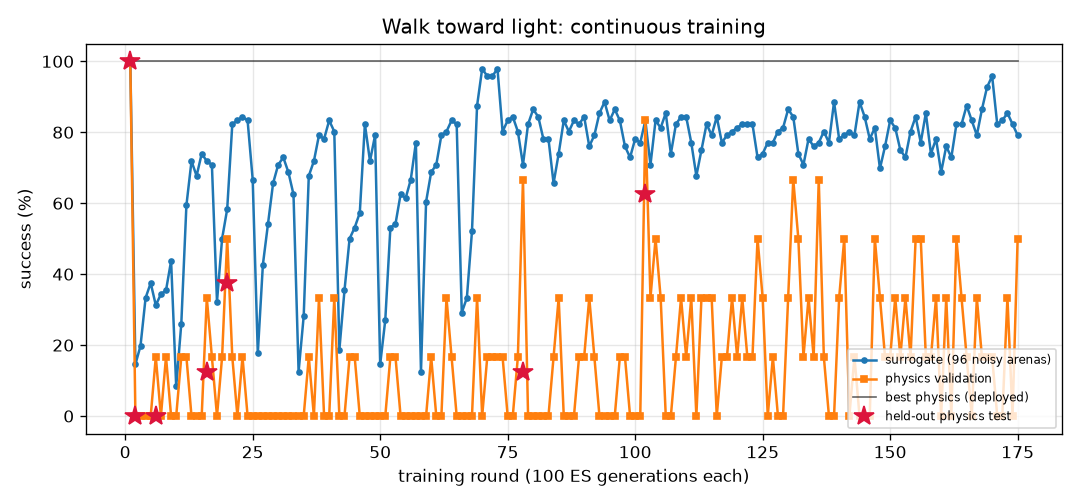
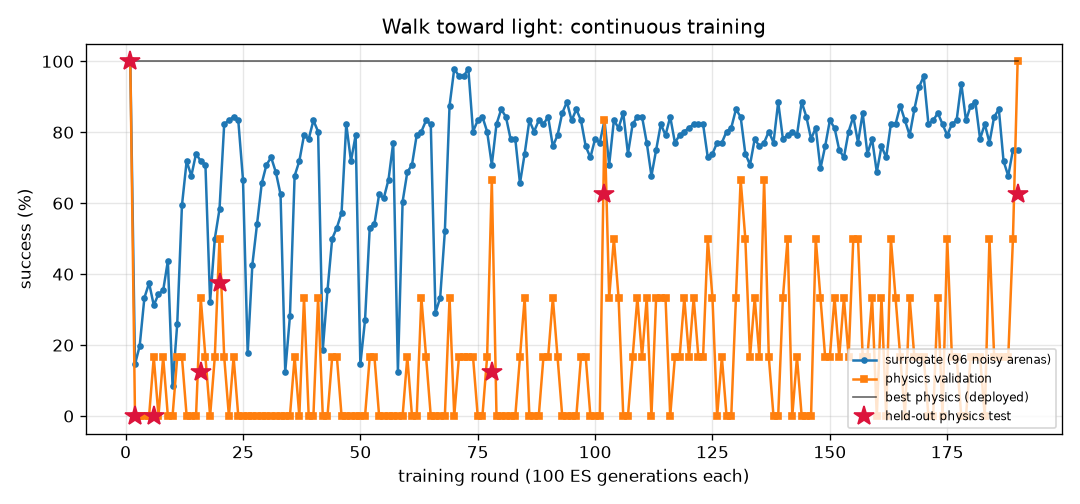
FlyLab: continuous training progress
- walk_forward: optimal, physics val 100% of 24, round 28
- turn: optimal, physics val 96% of 24, round 3
- goto: optimal, physics val 100% of 24, round 33
- odor_seek: optimal, physics val 100% of 24, round 61
- odor_avoid: level 1/3, physics val 100% of 6, round 200
- light_seek: level 1/3, physics val 100% of 6, round 190
- light_avoid: optimal, physics val 100% of 24, round 21

diff --git a/projects/09_flylab/training/light_seek/REPORT.md b/projects/09_flylab/training/light_seek/REPORT.md
@@ -1,37 +1,22 @@
 # Walk toward light (`light_seek`) — training report
 
-*Auto-generated by `train_brains.py`, last updated 2026-09-26T05:11:01.*
+*Auto-generated by `train_brains.py`, last updated 2026-09-26T06:03:58.*
 
 ![curve](curve.png)
 
 | | |
 |---|---|
-| rounds | 175 |
-| ES generations | 17500 |
-| physics runs | 1204 |
+| rounds | 190 |
+| ES generations | 19000 |
+| physics runs | 1302 |
 | status | level 1/3 |
-| best brain | round 102: physics validation **83%** on 6 arenas, surrogate 83% |
-| held-out physics test | **62%** on 8 unseen arenas (95% CI 31%-86%) (errors: [0.13, 0.14, 0.04, 0.14, 0.27, 0.37, 0.3, 0.04]) |
+| best brain | round 190: physics validation **100%** on 6 arenas, surrogate 75% |
+| held-out physics test | **62%** on 8 unseen arenas (95% CI 31%-86%) (errors: [0.14, 0.47, 0.63, 0.05, 0.35, 0.26, 0.05, 0.05]) |
 
 Physics error per arena: mm from target at the end (< 1.5 and standing still = success).
 
 | round | level | gens | sigma | surrogate | physics val | val errors | test | note |
 |---:|---:|---:|---:|---:|---:|---|---:|---|
-| 136 | 1 | 13600 | 0.037 | 77% | 67% | [0.14, 0.1, 0.39, 0.05, 0.26, 0.48] |  |  |
-| 137 | 1 | 13700 | 0.037 | 80% | 17% | [0.03, 0.16, 0.24, 0.16, 0.73, 3.58] |  |  |
-| 138 | 1 | 13800 | 0.035 | 77% | 0% | [0.16, 3.48, 2.99, 0.02, 0.05, 0.26] |  | restart from best |
-| 139 | 1 | 13900 | 0.033 | 89% | 0% | [0.03, 0.71, 2.91, 0.23, 0.16, 0.14] |  |  |
-| 140 | 1 | 14000 | 0.030 | 78% | 33% | [0.3, 2.36, 0.34, 0.17, 0.61, 0.23] |  |  |
-| 141 | 1 | 14100 | 0.036 | 79% | 50% | [0.11, 0.5, 0.17, 3.0, 0.66, 0.02] |  |  |
-| 142 | 1 | 14200 | 0.036 | 80% | 0% | [0.06, 3.34, 2.01, 0.12, 3.99, 0.12] |  | restart from best |
-| 143 | 1 | 14300 | 0.033 | 79% | 17% | [0.45, 4.22, 0.1, 0.23, 0.18, 0.37] |  |  |
-| 144 | 1 | 14400 | 0.036 | 89% | 0% | [0.15, 3.2, 0.92, 0.25, 2.49, 0.06] |  |  |
-| 145 | 1 | 14500 | 0.030 | 84% | 0% | [0.08, 0.55, 0.06, 0.1, 0.51, 0.39] |  |  |
-| 146 | 1 | 14600 | 0.033 | 78% | 0% | [0.18, 4.35, 0.02, 0.05, 0.14, 0.12] |  | restart from best |
-| 147 | 1 | 14700 | 0.033 | 81% | 50% | [0.23, 0.08, 0.15, 0.13, 0.22, 0.41] |  |  |
-| 148 | 1 | 14800 | 0.035 | 70% | 33% | [0.07, 0.26, 0.23, 0.22, 0.18, 0.4] |  |  |
-| 149 | 1 | 14900 | 0.041 | 76% | 17% | [0.51, 0.37, 0.09, 0.18, 4.74, 0.31] |  |  |
-| 150 | 1 | 15000 | 0.037 | 83% | 17% | [0.33, 0.2, 0.13, 0.2, 3.79, 1.57] |  | restart from best |
 | 151 | 1 | 15100 | 0.033 | 81% | 33% | [0.17, 0.64, 1.17, 0.05, 0.42, 0.51] |  |  |
 | 152 | 1 | 15200 | 0.035 | 75% | 17% | [2.85, 0.39, 0.17, 0.43, 2.99, 1.48] |  |  |
 | 153 | 1 | 15300 | 0.038 | 73% | 33% | [0.38, 0.12, 0.13, 0.03, 0.06, 4.26] |  |  |
@@ -57,3 +42,18 @@ Physics error per arena: mm from target at the end (< 1.5 and standing still = s
 | 173 | 1 | 17300 | 0.033 | 85% | 33% | [0.12, 1.79, 0.07, 0.23, 1.67, 0.15] |  |  |
 | 174 | 1 | 17400 | 0.032 | 82% | 0% | [0.14, 2.18, 3.99, 0.07, 0.09, 0.08] |  | restart from best |
 | 175 | 1 | 17500 | 0.033 | 79% | 50% | [0.13, 2.52, 0.13, 0.05, 0.33, 0.39] |  |  |
+| 176 | 1 | 17600 | 0.036 | 82% | 17% | [0.04, 0.27, 0.31, 0.12, 4.06, 0.17] |  |  |
+| 177 | 1 | 17700 | 0.034 | 83% | 17% | [0.01, 0.04, 0.19, 2.33, 0.95, 0.04] |  |  |
+| 178 | 1 | 17800 | 0.033 | 94% | 0% | [0.12, 1.04, 1.51, 1.06, 1.44, 2.32] |  | restart from best |
+| 179 | 1 | 17900 | 0.033 | 83% | 0% | [0.09, 3.27, 0.06, 0.12, 2.86, 3.65] |  |  |
+| 180 | 1 | 18000 | 0.033 | 88% | 17% | [0.02, 0.48, 0.23, 0.12, 0.39, 0.12] |  |  |
+| 181 | 1 | 18100 | 0.031 | 89% | 17% | [2.98, 0.26, 0.13, 0.1, 1.63, 1.18] |  |  |
+| 182 | 1 | 18200 | 0.030 | 78% | 17% | [0.13, 0.39, 0.33, 0.07, 0.44, 0.24] |  | restart from best |
+| 183 | 1 | 18300 | 0.033 | 82% | 0% | [0.14, 0.44, 0.07, 0.22, 0.07, 3.35] |  |  |
+| 184 | 1 | 18400 | 0.034 | 77% | 50% | [4.88, 0.2, 0.23, 0.18, 0.18, 0.19] |  |  |
+| 185 | 1 | 18500 | 0.037 | 84% | 17% | [0.26, 0.12, 0.16, 0.03, 0.53, 0.49] |  |  |
+| 186 | 1 | 18600 | 0.033 | 86% | 17% | [0.2, 0.3, 0.24, 0.05, 1.45, 0.32] |  | restart from best |
+| 187 | 1 | 18700 | 0.033 | 72% | 17% | [0.39, 0.23, 0.48, 0.08, 0.31, 0.12] |  |  |
+| 188 | 1 | 18800 | 0.040 | 68% | 17% | [0.86, 0.12, 0.19, 0.23, 0.18, 0.45] |  |  |
+| 189 | 1 | 18900 | 0.042 | 75% | 50% | [0.09, 0.32, 0.08, 0.15, 3.59, 0.09] |  |  |
+| 190 | 1 | 19000 | 0.038 | 75% | 100% | [0.11, 0.31, 0.39, 0.08, 0.32, 0.37] | 62% | new best |

diff --git a/projects/09_flylab/training/TRAINING.md b/projects/09_flylab/training/TRAINING.md
@@ -1,6 +1,6 @@
 # FlyLab brains — continuous training log
 
-*Auto-generated by `train_brains.py`, last updated 2026-09-26T05:11:01.*
+*Auto-generated by `train_brains.py`, last updated 2026-09-26T06:03:58.*
 
 Every skill has its own brain and its own training process: surrogate ES rounds, physics validation in MuJoCo, keep-the-best selection, and a held-out physics test that is never used for selection. See each skill's report for its full round-by-round history. Mastery is progressive: passing a level (100% physics validation, >=95% surrogate) doubles the validation and test arena sets; a brain is **optimal** once it holds up at level 3 (>=95% of 24 validation arenas) AND scores >=90% on the 32 held-out test arenas. Test columns show 95% Wilson confidence intervals.
 
@@ -11,5 +11,5 @@ Every skill has its own brain and its own training process: surrogate ES rounds,
 | [Go to a location](goto/REPORT.md) | 33 | 3300 | 422 | 100% | 100% of 24 | 100% of 32 (CI 89-100%) | **optimal** |
 | [Find food by smell](odor_seek/REPORT.md) | 61 | 6100 | 574 | 100% | 100% of 24 | 100% of 32 (CI 89-100%) | **optimal** |
 | [Escape a bad smell](odor_avoid/REPORT.md) | 200 | 20000 | 1346 | 89% | 100% of 6 | 100% of 8 (CI 68-100%) | level 1/3 |
-| [Walk toward light](light_seek/REPORT.md) | 175 | 17500 | 1204 | 83% | 83% of 6 | 62% of 8 (CI 31-86%) | level 1/3 |
+| [Walk toward light](light_seek/REPORT.md) | 190 | 19000 | 1302 | 75% | 100% of 6 | 62% of 8 (CI 31-86%) | level 1/3 |
 | [Hide from light](light_avoid/REPORT.md) | 21 | 2100 | 518 | 98% | 100% of 24 | 100% of 32 (CI 89-100%) | **optimal** |
